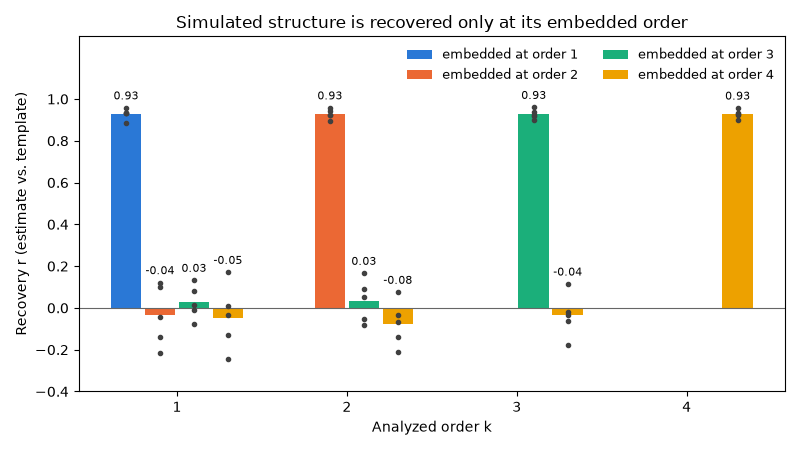
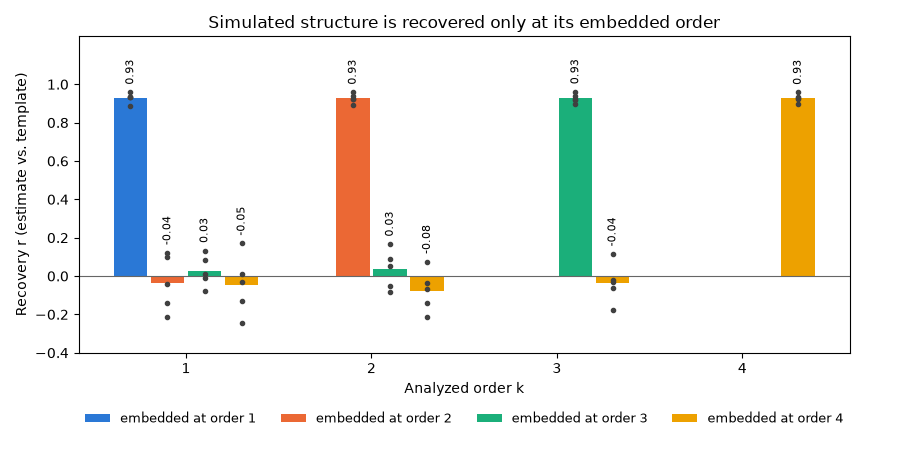
Docs: regenerate the gallery after the example changes (0 warnings)
Claude-Session: https://claude.ai/code/session_01DcKtyroRyyp5UK7L9zwqxL

diff --git a/docs/auto_examples/plot_higher_order_recovery.py b/docs/auto_examples/plot_higher_order_recovery.py
@@ -88,7 +88,7 @@ for n in orders:
 # grouped bars: x = analyzed order, one bar per embedded order
 colors = ["#2a78d6", "#eb6834", "#1baf7a", "#eda100"]
 width = 0.2
-fig, ax = plt.subplots(figsize=(8, 4.5))
+fig, ax = plt.subplots(figsize=(9, 4.5))
 for i, n in enumerate(orders):
     ks = np.arange(1, n + 1)
     x = ks + (i - 1.5) * width
@@ -97,14 +97,17 @@ for i, n in enumerate(orders):
     for xi, row in zip(x, r[n]):
         ax.plot(np.full(len(seeds), xi), row, "o", ms=3, color="0.25", zorder=3)
     for xi, m, row in zip(x, means, r[n]):
-        ax.annotate(f"{m:.2f}", (xi, max(row.max(), 0) + 0.04), ha="center", fontsize=8)
+        ax.annotate(
+            f"{m:.2f}", (xi, max(row.max(), 0) + 0.04), ha="center", va="bottom",
+            rotation=90, fontsize=8, bbox=dict(fc="white", ec="none", pad=0.5),
+        )
 ax.axhline(0, color="0.4", lw=0.8)
 ax.set_xticks(orders)
 ax.set_xlabel("Analyzed order k")
 ax.set_ylabel("Recovery r (estimate vs. template)")
-ax.set_ylim(-0.4, 1.3)
+ax.set_ylim(-0.4, 1.25)
 ax.set_title("Simulated structure is recovered only at its embedded order")
-ax.legend(loc="upper right", ncol=2, frameon=False, fontsize=9)
+ax.legend(loc="upper center", bbox_to_anchor=(0.5, -0.15), ncol=4, frameon=False, fontsize=9)
 ax.set_yticks(np.arange(-0.4, 1.01, 0.2))
 fig.tight_layout()
 plt.show()

diff --git a/docs/auto_examples/decode_by_level.py b/docs/auto_examples/decode_by_level.py
@@ -37,13 +37,12 @@ np.random.seed(0)
 
 # decode with features of orders 0, 1 and 2 (every order up to the highest is
 # computed; the results for each listed order are returned)
-# combine takes one function per order: order 0 holds activations, which are
-# averaged as they are (mean_combine); orders 1 and 2 hold correlations, which
-# are averaged in Fisher z space (corrmean_combine)
+# corrmean_combine averages the groups' correlations (orders 1 and 2) in Fisher
+# z space; order-0 activations are always averaged with mean_combine
 results = tc.timepoint_decoder(
     data,
     level=[0, 1, 2],
-    combine=[tc.mean_combine, tc.corrmean_combine, tc.corrmean_combine],
+    combine=tc.corrmean_combine,
     cfun=tc.isfc,
     rfun="eigenvector_centrality",
     weights_fun=laplace["weights"],

diff --git a/docs/auto_examples/decode_by_weighted_level.py b/docs/auto_examples/decode_by_weighted_level.py
@@ -36,12 +36,12 @@ laplace = {"name": "Laplace", "weights": tc.laplace_weights, "params": {"scale":
 # the group splits are random: seed the global NumPy random state to repeat them
 np.random.seed(0)
 
-# order 0 holds activations (mean_combine); orders 1 and 2 hold correlations,
-# averaged in Fisher z space (corrmean_combine)
+# corrmean_combine averages the groups' correlations (orders 1 and 2) in Fisher
+# z space; order-0 activations are always averaged with mean_combine
 results = tc.weighted_timepoint_decoder(
     data,
     level=2,
-    combine=[tc.mean_combine, tc.corrmean_combine, tc.corrmean_combine],
+    combine=tc.corrmean_combine,
     cfun=tc.isfc,
     rfun="eigenvector_centrality",
     weights_fun=laplace["weights"],

diff --git a/docs/auto_examples/index.rst b/docs/auto_examples/index.rst
@@ -74,23 +74,6 @@ the decoding scripts take up to about a minute each and are shown without output
 
 .. raw:: html
 
-    <div class="sphx-glr-thumbcontainer" tooltip="In this example, we simulate data whose correlations change over time, compute their dynamic correlations with timecorr, and compare the estimates with the true correlations.">
-
-.. only:: html
-
-  .. image:: /auto_examples/images/thumb/sphx_glr_calculate_dynamic_correlations_thumb.png
-    :alt:
-
-  :doc:`/auto_examples/calculate_dynamic_correlations`
-
-.. raw:: html
-
-      <div class="sphx-glr-thumbnail-title">Calculate dynamic correlations</div>
-    </div>
-
-
-.. raw:: html
-
     <div class="sphx-glr-thumbcontainer" tooltip="In this example, we load the weights example dataset from hypertools (36 subjects, 300 timepoints, 100 features) and decode the timepoint from features of orders 0, 1 and 2 with timepoint_decoder.">
 
 .. only:: html
@@ -103,6 +86,23 @@ the decoding scripts take up to about a minute each and are shown without output
 .. raw:: html
 
       <div class="sphx-glr-thumbnail-title">Decode by level</div>
+    </div>
+
+
+.. raw:: html
+
+    <div class="sphx-glr-thumbcontainer" tooltip="In this example, we simulate data whose correlations change over time, compute their dynamic correlations with timecorr, and compare the estimates with the true correlations.">
+
+.. only:: html
+
+  .. image:: /auto_examples/images/thumb/sphx_glr_calculate_dynamic_correlations_thumb.png
+    :alt:
+
+  :doc:`/auto_examples/calculate_dynamic_correlations`
+
+.. raw:: html
+
+      <div class="sphx-glr-thumbnail-title">Calculate dynamic correlations</div>
     </div>
 
 
@@ -170,8 +170,8 @@ the decoding scripts take up to about a minute each and are shown without output
    /auto_examples/decode_by_level_simple
    /auto_examples/plot_explore_kernels
    /auto_examples/decode_by_weighted_level
-   /auto_examples/calculate_dynamic_correlations
    /auto_examples/decode_by_level
+   /auto_examples/calculate_dynamic_correlations
    /auto_examples/plot_simulate_data
    /auto_examples/plot_one_sided_kernels
    /auto_examples/plot_higher_order_recovery

diff --git a/docs/auto_examples/plot_higher_order_recovery.rst b/docs/auto_examples/plot_higher_order_recovery.rst
@@ -38,7 +38,7 @@ so the cost stays small at every order.
 
 The recovery is high at the embedded order and near zero below it.
 
-.. GENERATED FROM PYTHON SOURCE LINES 24-111
+.. GENERATED FROM PYTHON SOURCE LINES 24-114
 
 
 
@@ -133,7 +133,7 @@ The recovery is high at the embedded order and near zero below it.
     # grouped bars: x = analyzed order, one bar per embedded order
     colors = ["#2a78d6", "#eb6834", "#1baf7a", "#eda100"]
     width = 0.2
-    fig, ax = plt.subplots(figsize=(8, 4.5))
+    fig, ax = plt.subplots(figsize=(9, 4.5))
     for i, n in enumerate(orders):
         ks = np.arange(1, n + 1)
         x = ks + (i - 1.5) * width
@@ -142,14 +142,17 @@ The recovery is high at the embedded order and near zero below it.
         for xi, row in zip(x, r[n]):
             ax.plot(np.full(len(seeds), xi), row, "o", ms=3, color="0.25", zorder=3)
         for xi, m, row in zip(x, means, r[n]):
-            ax.annotate(f"{m:.2f}", (xi, max(row.max(), 0) + 0.04), ha="center", fontsize=8)
+            ax.annotate(
+                f"{m:.2f}", (xi, max(row.max(), 0) + 0.04), ha="center", va="bottom",
+                rotation=90, fontsize=8, bbox=dict(fc="white", ec="none", pad=0.5),
+            )
     ax.axhline(0, color="0.4", lw=0.8)
     ax.set_xticks(orders)
     ax.set_xlabel("Analyzed order k")
     ax.set_ylabel("Recovery r (estimate vs. template)")
-    ax.set_ylim(-0.4, 1.3)
+    ax.set_ylim(-0.4, 1.25)
     ax.set_title("Simulated structure is recovered only at its embedded order")
-    ax.legend(loc="upper right", ncol=2, frameon=False, fontsize=9)
+    ax.legend(loc="upper center", bbox_to_anchor=(0.5, -0.15), ncol=4, frameon=False, fontsize=9)
     ax.set_yticks(np.arange(-0.4, 1.01, 0.2))
     fig.tight_layout()
     plt.show()
@@ -157,7 +160,7 @@ The recovery is high at the embedded order and near zero below it.
 
 .. rst-class:: sphx-glr-timing
 
-   **Total running time of the script:** (0 minutes 0.621 seconds)
+   **Total running time of the script:** (0 minutes 0.632 seconds)
 
 
 .. _sphx_glr_download_auto_examples_plot_higher_order_recovery.py:

diff --git a/docs/auto_examples/decode_by_level.rst b/docs/auto_examples/decode_by_level.rst
@@ -33,7 +33,7 @@ with it. Order 0 is the data; order ``k >= 1`` is the dynamic inter-subject
 correlations (ISFC) of the order ``k - 1`` co-fluctuations, reduced here to one
 value per feature with eigenvector centrality.
 
-.. GENERATED FROM PYTHON SOURCE LINES 19-56
+.. GENERATED FROM PYTHON SOURCE LINES 19-55
 
 .. code-block:: Python
 
@@ -58,13 +58,12 @@ value per feature with eigenvector centrality.
 
     # decode with features of orders 0, 1 and 2 (every order up to the highest is
     # computed; the results for each listed order are returned)
-    # combine takes one function per order: order 0 holds activations, which are
-    # averaged as they are (mean_combine); orders 1 and 2 hold correlations, which
-    # are averaged in Fisher z space (corrmean_combine)
+    # corrmean_combine averages the groups' correlations (orders 1 and 2) in Fisher
+    # z space; order-0 activations are always averaged with mean_combine
     results = tc.timepoint_decoder(
         data,
         level=[0, 1, 2],
-        combine=[tc.mean_combine, tc.corrmean_combine, tc.corrmean_combine],
+        combine=tc.corrmean_combine,
         cfun=tc.isfc,
         rfun="eigenvector_centrality",
         weights_fun=laplace["weights"],

diff --git a/docs/auto_examples/decode_by_weighted_level.rst b/docs/auto_examples/decode_by_weighted_level.rst
@@ -57,12 +57,12 @@ orders 0-2.
     # the group splits are random: seed the global NumPy random state to repeat them
     np.random.seed(0)
 
-    # order 0 holds activations (mean_combine); orders 1 and 2 hold correlations,
-    # averaged in Fisher z space (corrmean_combine)
+    # corrmean_combine averages the groups' correlations (orders 1 and 2) in Fisher
+    # z space; order-0 activations are always averaged with mean_combine
     results = tc.weighted_timepoint_decoder(
         data,
         level=2,
-        combine=[tc.mean_combine, tc.corrmean_combine, tc.corrmean_combine],
+        combine=tc.corrmean_combine,
         cfun=tc.isfc,
         rfun="eigenvector_centrality",
         weights_fun=laplace["weights"],

diff --git a/docs/auto_examples/sg_execution_times.rst b/docs/auto_examples/sg_execution_times.rst
@@ -6,7 +6,7 @@
 
 Computation times
 =================
-**00:01.164** total execution time for 8 files **from auto_examples**:
+**00:01.175** total execution time for 8 files **from auto_examples**:
 
 .. container::
 
@@ -33,7 +33,7 @@ Computation times
      - Time
      - Mem (MB)
    * - :ref:`sphx_glr_auto_examples_plot_higher_order_recovery.py` (``plot_higher_order_recovery.py``)
-     - 00:00.621
+     - 00:00.632
      - 0.0
    * - :ref:`sphx_glr_auto_examples_plot_explore_kernels.py` (``plot_explore_kernels.py``)
      - 00:00.306
